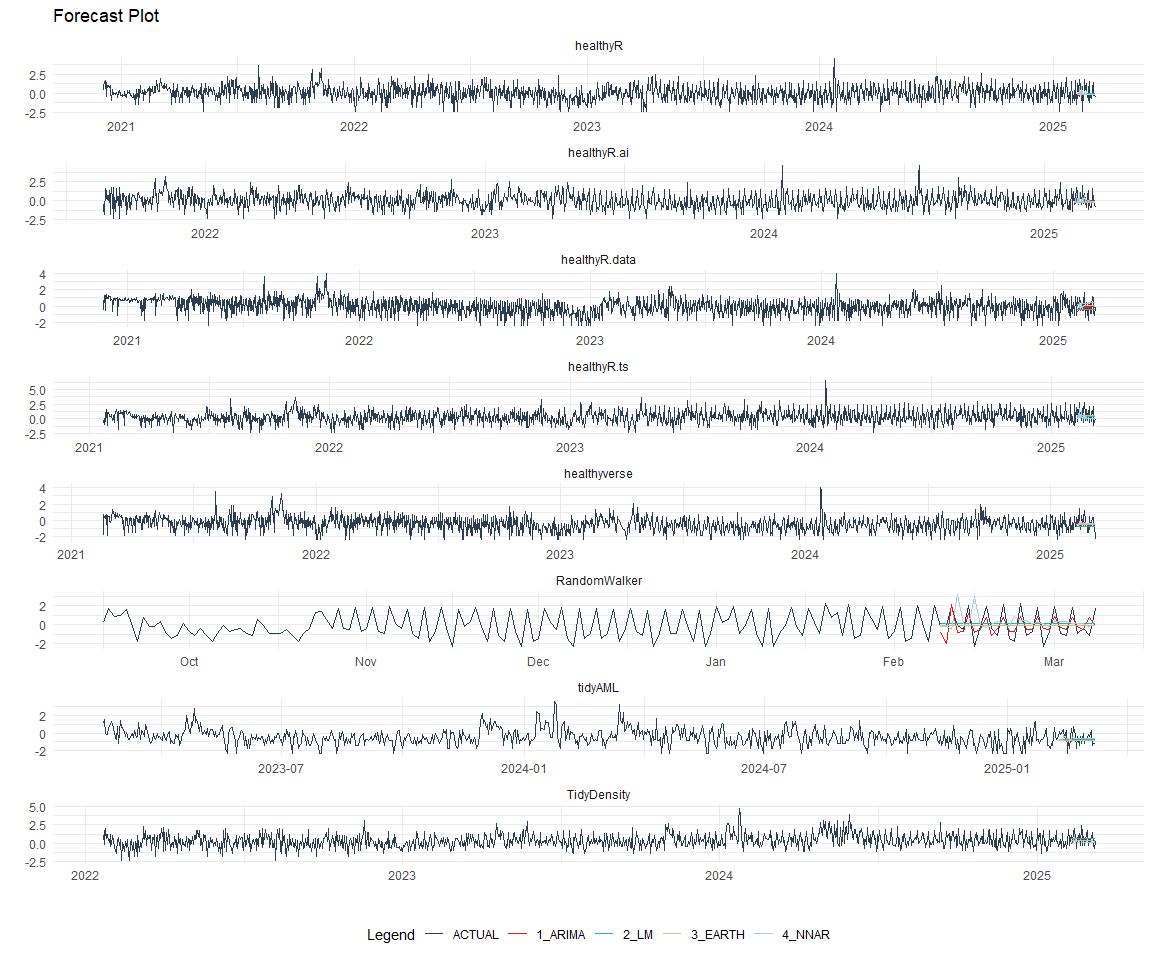
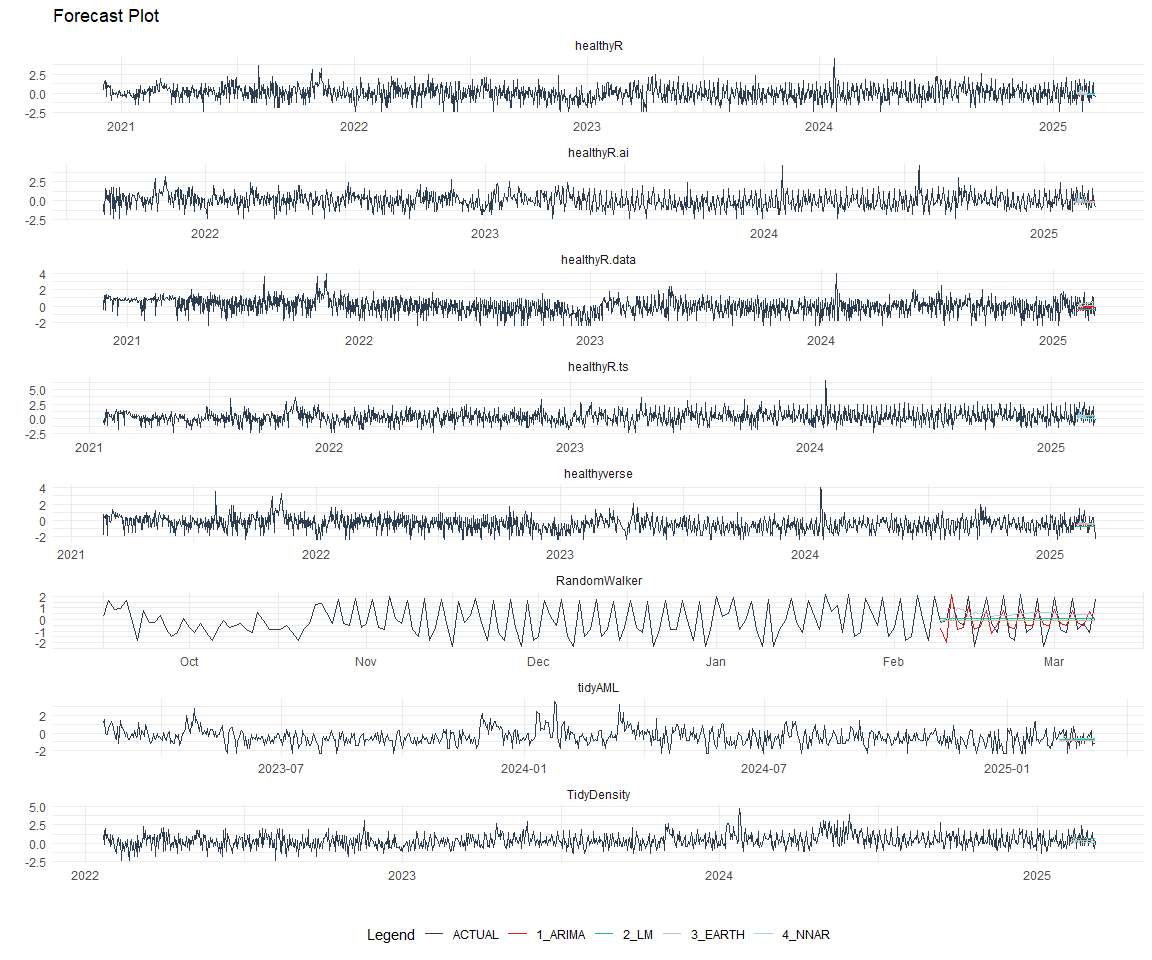
minor update

Changed region(s): [[0.2812, 0.625, 0.9688, 0.6562], [0.0938, 0.625, 0.125, 0.6562], [0.0312, 0.625, 0.0625, 0.6562]]

diff --git a/README.md b/README.md
@@ -202,7 +202,7 @@ data_list |>
             train_set_size <- floor(.8*length(x))
             pkg <- obj |> pluck(1) |> unique()
             
-            cat(paste0("Package: ", pkg))
+            cat(paste0("Package: ", pkg, "\n"))
             NNS.ARMA.optim(
                 variable = x,
                 h = 28,
@@ -220,7 +220,8 @@ data_list |>
     )
 ```
 
-    ## Package: healthyR[1] "CURRNET METHOD: lin"
+    ## Package: healthyR
+    ## [1] "CURRNET METHOD: lin"
     ## [1] "COPY LATEST PARAMETERS DIRECTLY FOR NNS.ARMA() IF ERROR:"
     ## [1] "NNS.ARMA(... method =  'lin' , seasonal.factor =  c( 54 ) ...)"
     ## [1] "CURRENT lin OBJECTIVE FUNCTION = 4.2276459795001"
@@ -239,9 +240,10 @@ data_list |>
     ## [1] "BEST method = 'both' PATH MEMBER = c( 54 )"
     ## [1] "BEST both OBJECTIVE FUNCTION = 5.64267552099994"
 
-![](man/figures/README-unnamed-chunk-1-1.png)<!-- -->
+![](man/figures/README-nns_forecasting-1.png)<!-- -->
 
-    ## Package: healthyR.ai[1] "CURRNET METHOD: lin"
+    ## Package: healthyR.ai
+    ## [1] "CURRNET METHOD: lin"
     ## [1] "COPY LATEST PARAMETERS DIRECTLY FOR NNS.ARMA() IF ERROR:"
     ## [1] "NNS.ARMA(... method =  'lin' , seasonal.factor =  c( 54 ) ...)"
     ## [1] "CURRENT lin OBJECTIVE FUNCTION = 6.2897313428979"
@@ -260,9 +262,10 @@ data_list |>
     ## [1] "BEST method = 'both' PATH MEMBER = c( 54 )"
     ## [1] "BEST both OBJECTIVE FUNCTION = 7.12735875762468"
 
-![](man/figures/README-unnamed-chunk-1-2.png)<!-- -->
+![](man/figures/README-nns_forecasting-2.png)<!-- -->
 
-    ## Package: healthyR.data[1] "CURRNET METHOD: lin"
+    ## Package: healthyR.data
+    ## [1] "CURRNET METHOD: lin"
     ## [1] "COPY LATEST PARAMETERS DIRECTLY FOR NNS.ARMA() IF ERROR:"
     ## [1] "NNS.ARMA(... method =  'lin' , seasonal.factor =  c( 40 ) ...)"
     ## [1] "CURRENT lin OBJECTIVE FUNCTION = 5.64733871276416"
@@ -281,9 +284,10 @@ data_list |>
     ## [1] "BEST method = 'both' PATH MEMBER = c( 40 )"
     ## [1] "BEST both OBJECTIVE FUNCTION = 5.03310229466791"
 
-![](man/figures/README-unnamed-chunk-1-3.png)<!-- -->
+![](man/figures/README-nns_forecasting-3.png)<!-- -->
 
-    ## Package: healthyR.ts[1] "CURRNET METHOD: lin"
+    ## Package: healthyR.ts
+    ## [1] "CURRNET METHOD: lin"
     ## [1] "COPY LATEST PARAMETERS DIRECTLY FOR NNS.ARMA() IF ERROR:"
     ## [1] "NNS.ARMA(... method =  'lin' , seasonal.factor =  c( 54 ) ...)"
     ## [1] "CURRENT lin OBJECTIVE FUNCTION = 5.15266328663678"
@@ -302,9 +306,10 @@ data_list |>
     ## [1] "BEST method = 'both' PATH MEMBER = c( 54 )"
     ## [1] "BEST both OBJECTIVE FUNCTION = 7.77093605269951"
 
-![](man/figures/README-unnamed-chunk-1-4.png)<!-- -->
+![](man/figures/README-nns_forecasting-4.png)<!-- -->
 
-    ## Package: healthyverse[1] "CURRNET METHOD: lin"
+    ## Package: healthyverse
+    ## [1] "CURRNET METHOD: lin"
     ## [1] "COPY LATEST PARAMETERS DIRECTLY FOR NNS.ARMA() IF ERROR:"
     ## [1] "NNS.ARMA(... method =  'lin' , seasonal.factor =  c( 54 ) ...)"
     ## [1] "CURRENT lin OBJECTIVE FUNCTION = 4.92450684870782"
@@ -323,9 +328,10 @@ data_list |>
     ## [1] "BEST method = 'both' PATH MEMBER = c( 54 )"
     ## [1] "BEST both OBJECTIVE FUNCTION = 7.78902594068151"
 
-![](man/figures/README-unnamed-chunk-1-5.png)<!-- -->
+![](man/figures/README-nns_forecasting-5.png)<!-- -->
 
-    ## Package: RandomWalker[1] "CURRNET METHOD: lin"
+    ## Package: RandomWalker
+    ## [1] "CURRNET METHOD: lin"
     ## [1] "COPY LATEST PARAMETERS DIRECTLY FOR NNS.ARMA() IF ERROR:"
     ## [1] "NNS.ARMA(... method =  'lin' , seasonal.factor =  c( 26 ) ...)"
     ## [1] "CURRENT lin OBJECTIVE FUNCTION = 1.69855183295395"
@@ -346,9 +352,10 @@ data_list |>
     ## [1] "BEST method = 'both' PATH MEMBER = c( 26, 40 )"
     ## [1] "BEST both OBJECTIVE FUNCTION = 1.59486932657561"
 
-![](man/figures/README-unnamed-chunk-1-6.png)<!-- -->
+![](man/figures/README-nns_forecasting-6.png)<!-- -->
 
-    ## Package: tidyAML[1] "CURRNET METHOD: lin"
+    ## Package: tidyAML
+    ## [1] "CURRNET METHOD: lin"
     ## [1] "COPY LATEST PARAMETERS DIRECTLY FOR NNS.ARMA() IF ERROR:"
     ## [1] "NNS.ARMA(... method =  'lin' , seasonal.factor =  c( 19 ) ...)"
     ## [1] "CURRENT lin OBJECTIVE FUNCTION = 7.57458002557671"
@@ -367,9 +374,10 @@ data_list |>
     ## [1] "BEST method = 'both' PATH MEMBER = c( 19 )"
     ## [1] "BEST both OBJECTIVE FUNCTION = 9.56900615363809"
 
-![](man/figures/README-unnamed-chunk-1-7.png)<!-- -->
+![](man/figures/README-nns_forecasting-7.png)<!-- -->
 
-    ## Package: TidyDensity[1] "CURRNET METHOD: lin"
+    ## Package: TidyDensity
+    ## [1] "CURRNET METHOD: lin"
     ## [1] "COPY LATEST PARAMETERS DIRECTLY FOR NNS.ARMA() IF ERROR:"
     ## [1] "NNS.ARMA(... method =  'lin' , seasonal.factor =  c( 54 ) ...)"
     ## [1] "CURRENT lin OBJECTIVE FUNCTION = 4.44774055790494"
@@ -388,7 +396,7 @@ data_list |>
     ## [1] "BEST method = 'both' PATH MEMBER = c( 54 )"
     ## [1] "BEST both OBJECTIVE FUNCTION = 6.20241092193107"
 
-![](man/figures/README-unnamed-chunk-1-8.png)<!-- -->
+![](man/figures/README-nns_forecasting-8.png)<!-- -->
 
     ## [[1]]
     ## NULL
@@ -597,35 +605,35 @@ nested_modeltime_tbl %>%
 | healthyR.data | 1 | ARIMA | Test | 0.6669583 | 170.97772 | 0.6772493 | 150.59286 | 0.7881822 | 0.1421806 |
 | healthyR.data | 2 | LM | Test | 0.7840220 | 214.69142 | 0.7961193 | 148.66005 | 0.9205432 | 0.0605364 |
 | healthyR.data | 3 | EARTH | Test | 0.6917826 | 183.53582 | 0.7024566 | 125.74225 | 0.8991284 | 0.0605364 |
-| healthyR.data | 4 | NNAR | Test | 0.6817945 | 116.77361 | 0.6923144 | 167.61843 | 0.8210014 | 0.0063852 |
+| healthyR.data | 4 | NNAR | Test | 0.6782654 | 114.57318 | 0.6887309 | 170.16437 | 0.8176397 | 0.0076810 |
 | healthyR | 1 | ARIMA | Test | 0.8198744 | 169.73330 | 0.7261129 | 171.31434 | 0.9996576 | 0.0071818 |
 | healthyR | 2 | LM | Test | 0.8288189 | 114.76444 | 0.7340346 | 182.56342 | 1.0137475 | 0.0367363 |
 | healthyR | 3 | EARTH | Test | 0.8471942 | 145.97463 | 0.7503085 | 167.02179 | 1.0360136 | 0.0367363 |
-| healthyR | 4 | NNAR | Test | 0.7994935 | 155.53305 | 0.7080629 | 155.61349 | 0.9747372 | 0.0658381 |
+| healthyR | 4 | NNAR | Test | 0.8063484 | 138.13783 | 0.7141338 | 159.02532 | 0.9858597 | 0.0487174 |
 | healthyR.ts | 1 | ARIMA | Test | 0.9695902 | 114.40050 | 0.6538214 | 139.81757 | 1.1561180 | 0.0783122 |
 | healthyR.ts | 2 | LM | Test | 0.9346800 | 120.11191 | 0.6302805 | 124.73829 | 1.1216329 | 0.0783122 |
 | healthyR.ts | 3 | EARTH | Test | 0.9234248 | 121.97951 | 0.6226908 | 120.42608 | 1.1132523 | 0.0783122 |
-| healthyR.ts | 4 | NNAR | Test | 0.9267570 | 102.58613 | 0.6249378 | 169.46443 | 1.1329273 | 0.1203101 |
+| healthyR.ts | 4 | NNAR | Test | 0.9250562 | 104.72695 | 0.6237909 | 167.70545 | 1.1259265 | 0.1194066 |
 | healthyverse | 1 | ARIMA | Test | 0.6187711 | 129.75713 | 0.8052899 | 107.43203 | 0.8137142 | 0.0386544 |
 | healthyverse | 2 | LM | Test | 0.7240425 | 188.13369 | 0.9422938 | 108.61033 | 0.9096897 | 0.1047770 |
 | healthyverse | 3 | EARTH | Test | 0.6260992 | 135.12184 | 0.8148270 | 106.58183 | 0.8224783 | 0.1047770 |
-| healthyverse | 4 | NNAR | Test | 0.6116814 | 119.82563 | 0.7960631 | 115.54628 | 0.7849013 | 0.0442685 |
+| healthyverse | 4 | NNAR | Test | 0.6080594 | 119.52223 | 0.7913494 | 114.98787 | 0.7823768 | 0.0587382 |
 | healthyR.ai | 1 | ARIMA | Test | 0.7485838 | 96.29836 | 0.6821222 | 162.72855 | 0.8962388 | 0.1018281 |
 | healthyR.ai | 2 | LM | Test | 0.7930867 | 97.33422 | 0.7226740 | 149.39732 | 0.9727010 | 0.0990356 |
 | healthyR.ai | 3 | EARTH | Test | 0.7929067 | 99.19101 | 0.7225100 | 140.70691 | 0.9889261 | 0.0990356 |
-| healthyR.ai | 4 | NNAR | Test | 0.6885389 | 89.14910 | 0.6274083 | 138.24596 | 0.8477982 | 0.1704778 |
+| healthyR.ai | 4 | NNAR | Test | 0.6801105 | 88.13516 | 0.6197282 | 137.46771 | 0.8364342 | 0.1948793 |
 | TidyDensity | 1 | ARIMA | Test | 0.6791496 | 114.55471 | 0.6642872 | 111.00050 | 0.8160469 | 0.0904804 |
 | TidyDensity | 2 | LM | Test | 0.6897918 | 164.67147 | 0.6746965 | 101.89908 | 0.8044294 | 0.0774872 |
 | TidyDensity | 3 | EARTH | Test | 0.7145304 | 112.96019 | 0.6988937 | 119.11381 | 0.8677687 | 0.0774872 |
-| TidyDensity | 4 | NNAR | Test | 0.7555666 | 104.33895 | 0.7390319 | 147.92012 | 0.9270601 | 0.0333776 |
+| TidyDensity | 4 | NNAR | Test | 0.7593617 | 104.66623 | 0.7427440 | 149.82382 | 0.9304329 | 0.0331293 |
 | tidyAML | 1 | ARIMA | Test | 0.6662460 | 182.09598 | 0.7094099 | 100.13239 | 0.7725491 | 0.0100536 |
 | tidyAML | 2 | LM | Test | 0.6380272 | 165.55657 | 0.6793629 | 98.04393 | 0.7625161 | 0.0604446 |
 | tidyAML | 3 | EARTH | Test | 0.6893231 | 198.31825 | 0.7339822 | 99.19162 | 0.8010868 | 0.0604446 |
-| tidyAML | 4 | NNAR | Test | 0.6278853 | 165.32346 | 0.6685640 | 98.49692 | 0.7562099 | 0.0071693 |
+| tidyAML | 4 | NNAR | Test | 0.6384819 | 165.04204 | 0.6798471 | 99.72797 | 0.7691422 | 0.0037301 |
 | RandomWalker | 1 | ARIMA | Test | 0.8977435 | 167.45921 | 0.4221469 | 91.79265 | 1.0489949 | 0.4882359 |
 | RandomWalker | 2 | LM | Test | 1.2791167 | 111.82559 | 0.6014805 | 194.01633 | 1.4475052 | 0.0032509 |
 | RandomWalker | 3 | EARTH | Test | 1.2100109 | 84.99721 | 0.5689848 | 153.25276 | 1.4471258 | NA |
-| RandomWalker | 4 | NNAR | Test | 1.5164657 | 225.47258 | 0.7130894 | 167.24032 | 1.8698375 | 0.0700279 |
+| RandomWalker | 4 | NNAR | Test | 1.4391954 | 170.35048 | 0.6767545 | 171.93595 | 1.5693895 | 0.0289167 |
 
 ### Plot Models
 
@@ -662,16 +670,16 @@ best_nested_modeltime_tbl %>%
     ## 
 
     ## # A tibble: 8 × 10
-    ##   package      .model_id .model_desc .type   mae  mape  mase smape  rmse     rsq
-    ##   <fct>            <int> <chr>       <chr> <dbl> <dbl> <dbl> <dbl> <dbl>   <dbl>
-    ## 1 healthyR.da…         1 ARIMA       Test  0.667 171.  0.677 151.  0.788 0.142  
-    ## 2 healthyR             4 NNAR        Test  0.799 156.  0.708 156.  0.975 0.0658 
-    ## 3 healthyR.ts          3 EARTH       Test  0.923 122.  0.623 120.  1.11  0.0783 
-    ## 4 healthyverse         4 NNAR        Test  0.612 120.  0.796 116.  0.785 0.0443 
-    ## 5 healthyR.ai          4 NNAR        Test  0.689  89.1 0.627 138.  0.848 0.170  
-    ## 6 TidyDensity          2 LM          Test  0.690 165.  0.675 102.  0.804 0.0775 
-    ## 7 tidyAML              4 NNAR        Test  0.628 165.  0.669  98.5 0.756 0.00717
-    ## 8 RandomWalker         1 ARIMA       Test  0.898 167.  0.422  91.8 1.05  0.488
+    ##   package       .model_id .model_desc .type   mae  mape  mase smape  rmse    rsq
+    ##   <fct>             <int> <chr>       <chr> <dbl> <dbl> <dbl> <dbl> <dbl>  <dbl>
+    ## 1 healthyR.data         1 ARIMA       Test  0.667 171.  0.677 151.  0.788 0.142 
+    ## 2 healthyR              4 NNAR        Test  0.806 138.  0.714 159.  0.986 0.0487
+    ## 3 healthyR.ts           3 EARTH       Test  0.923 122.  0.623 120.  1.11  0.0783
+    ## 4 healthyverse          4 NNAR        Test  0.608 120.  0.791 115.  0.782 0.0587
+    ## 5 healthyR.ai           4 NNAR        Test  0.680  88.1 0.620 137.  0.836 0.195 
+    ## 6 TidyDensity           2 LM          Test  0.690 165.  0.675 102.  0.804 0.0775
+    ## 7 tidyAML               2 LM          Test  0.638 166.  0.679  98.0 0.763 0.0604
+    ## 8 RandomWalker          1 ARIMA       Test  0.898 167.  0.422  91.8 1.05  0.488
 
 ``` r
 best_nested_modeltime_tbl %>%
